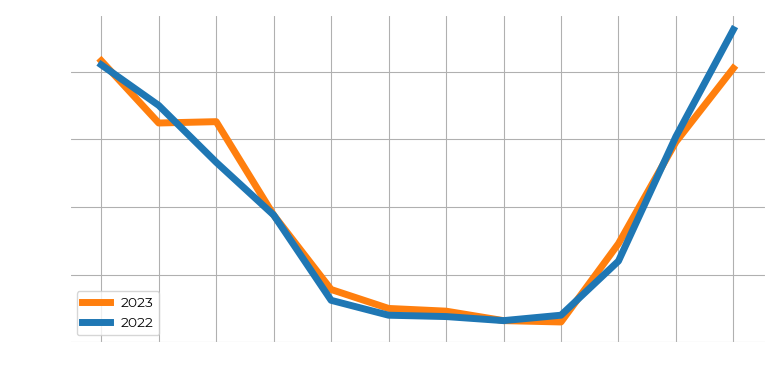
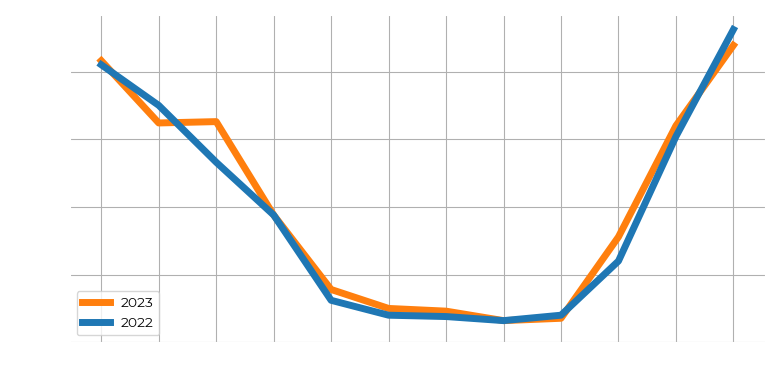
Tot en met 22 september

Changed region(s): [[0.7385, 0.1158, 0.9538, 0.7816], [0.6462, 0.7816, 0.7385, 0.8684]]

diff --git a/energieverbruik/energieverbruik.py b/energieverbruik/energieverbruik.py
@@ -40,12 +40,12 @@ VORIG_JAAR = HUIDIG_JAAR - 1
 #
 # INVOEREN GEGEVENS HUIDIGE JAAR
 #
-MAAND = Month.mei
-DAG_VAN_MAAND = 31
-DAGEN_IN_MAAND = 31
-VERBRUIK_GAS = 39
-VERBRUIK_ELEKTRICITEIT = 130
-VERBRUIK_WATER = 8
+MAAND = Month.sep
+DAG_VAN_MAAND = 22
+DAGEN_IN_MAAND = 30
+VERBRUIK_GAS = 13
+VERBRUIK_ELEKTRICITEIT = 86
+VERBRUIK_WATER = 5.5
 PRIJS_GAS = 1.39006
 PRIJS_ELEKTRICITEIT = 0.39802
 PRIJS_WATER = 1.021
@@ -307,7 +307,7 @@ maanden = ["jan", "feb", "mrt", "apr", "mei", "jun", "jul", "aug", "sep",
 rcParams['axes.edgecolor'] = 'White'
 rcParams['figure.figsize'] = [7.8, 3.8]
 rcParams['font.family'] = ['sans-serif']
-rcParams['font.sans-serif'] = ['Red Hat Text VF']
+rcParams['font.sans-serif'] = ['Montserrat']
 
 def GrafiekGas():
     # Grafiek gasverbruik
